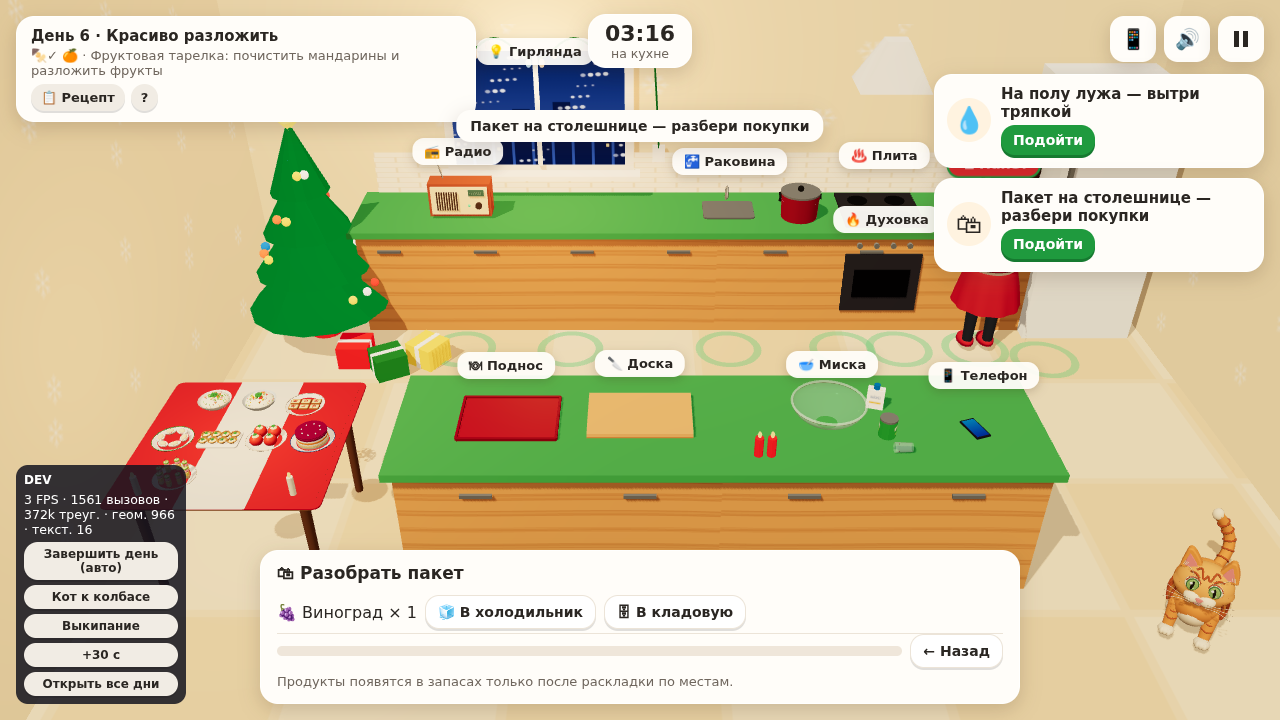
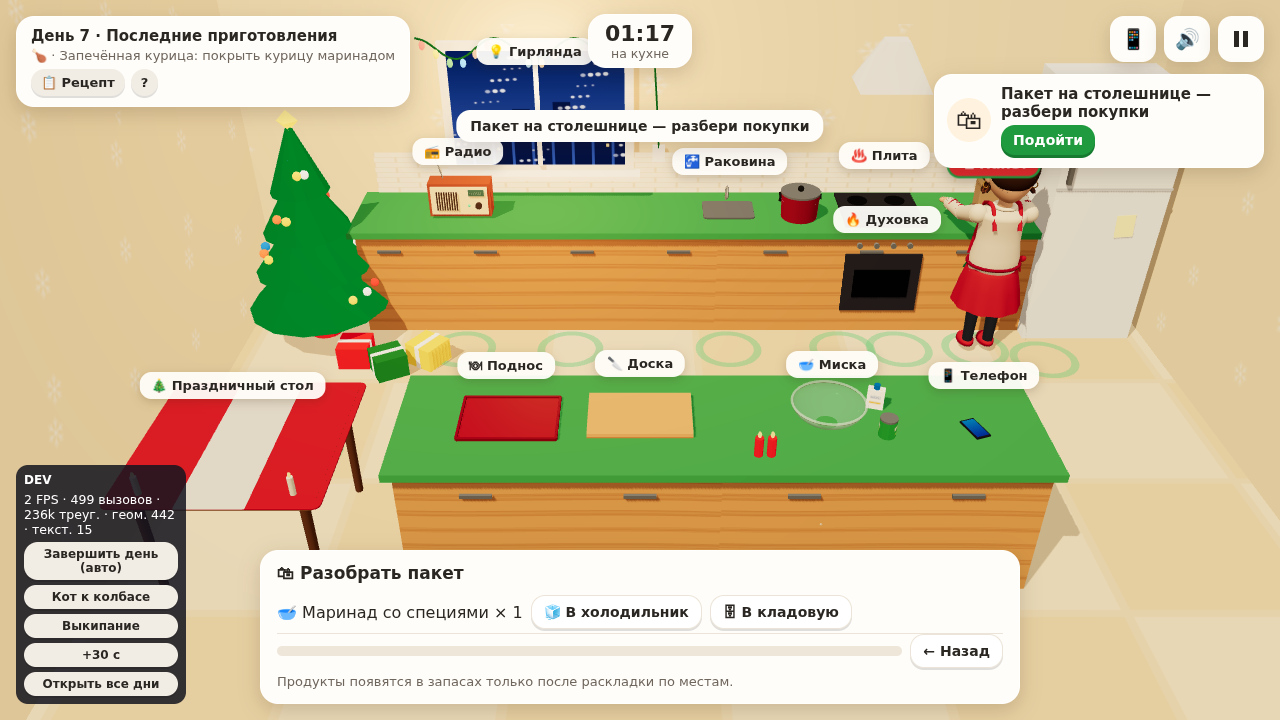
QA 0.4: сплошной браузерный прогон дней 1–7 на финальной сборке
Claude-Session: https://claude.ai/code/session_01FGx6tw6oGSPKftvX4UAwQf

diff --git a/docs/QA_v04.md b/docs/QA_v04.md
@@ -25,7 +25,7 @@
 Для ускорения в отдельных местах вызывается `fastForward` (ожидание доставки/таймеров) — это та же функция,
 что у кнопки «Ускорить ожидание» в игре. Результат каждого дня берётся из реального экрана итога.
 
-Итоговый прогон на финальной сборке (дни 1–5 подряд в одном сеансе, 53 проверки, 0 провалов на момент сдачи):
+Итоговый прогон на финальной сборке: все 7 дней подряд в одном сеансе, от нового сохранения до финального экрана, 56 проверок, 0 провалов:
 
 | День | Результат | Что проверено мышью |
 |---|---|---|
@@ -37,8 +37,7 @@
 | 6 | D = 100 | кружочки, кот у доски, канапе перетаскиванием (промах возвращает кусочек), фрукты, кот разлил компот → лужа |
 | 7 | D = 99 | маринад кистью, духовка, сервировка 9 блюд перетаскиванием, курица вовремя, все 10 блюд на столе, финальный экран |
 
-Дни 6 и 7 в финальной сборке пройдены отдельными запусками (`late`, `d7`: предыдущие дни отмечаются пройденными
-через сохранение). Сплошной прогон 1–7 на последней сборке в момент сдачи ещё шёл (дни 1–5 зелёные).
+Дополнительно дни 6 и 7 прогонялись отдельно (режимы `late`, `d7`) при отладке.
 
 Найдено и исправлено этой проверкой: стопки канапе и нижний ряд стола были закрыты нижней панелью
 (мышью не взять); маринад висел квадратами над курицей; финал из меню после перезагрузки падал с ошибкой
